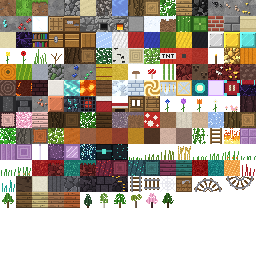
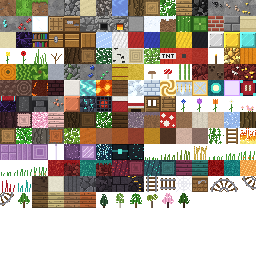
VoxelMundo 2.85: textura nova da melancia
Claude-Session: https://claude.ai/code/session_01SKzGsMSN5sGbjpC94Uaicj

diff --git a/VoxelMundo/app/src/main/assets/js/jogo.js b/VoxelMundo/app/src/main/assets/js/jogo.js
@@ -300,7 +300,11 @@ tile('torch', (px, r) => { for (let y = 0; y < 16; y++) for (let x = 0; x < 16; 
 tile('glowstone', (px, r) => { for (let y = 0; y < 16; y++) for (let x = 0; x < 16; x++) { const k = r(); px(x, y, k < 0.25 ? [140, 100, 40] : k < 0.6 ? vary([230, 180, 80], r, 20) : vary([255, 230, 140], r, 20)); } });
 tile('pumpkin_side', (px, r) => { for (let y = 0; y < 16; y++) for (let x = 0; x < 16; x++) px(x, y, vary(x % 4 === 0 ? [190, 110, 20] : [225, 135, 25], r, 14)); });
 tile('pumpkin_top', (px, r) => { for (let y = 0; y < 16; y++) for (let x = 0; x < 16; x++) { const d = Math.hypot(x - 7.5, y - 7.5); px(x, y, d < 2 ? [100, 80, 30] : vary(Math.floor(d) % 3 === 0 ? [190, 110, 20] : [225, 135, 25], r, 12)); } });
-tile('melon_side', (px, r) => { for (let y = 0; y < 16; y++) for (let x = 0; x < 16; x++) px(x, y, vary((x + (y >> 2)) % 5 === 0 ? [160, 190, 40] : [100, 150, 30], r, 15)); });
+// melancia: casca verde-escura com listras claras onduladas (lado) e listras indo até o cabinho (topo)
+tile('melon_side', (px, r) => { for (let y = 0; y < 16; y++) for (let x = 0; x < 16; x++) { const w = Math.round(Math.sin(y * 0.9 + (x >> 2)) * 0.8); const sx = (x + w + 16) % 4;
+  const c = sx === 0 ? [136, 186, 64] : sx === 1 ? [92, 150, 44] : [52, 102, 30]; px(x, y, vary(c, r, 10)); } });
+tile('melon_top', (px, r) => { for (let y = 0; y < 16; y++) for (let x = 0; x < 16; x++) { const dx = x - 7.5, dy = y - 7.5, d = Math.hypot(dx, dy), a = Math.atan2(dy, dx); const st = Math.floor(((a / (Math.PI * 2)) * 16 + 16 + Math.sin(d * 0.7)) % 4);
+  let c = st === 0 ? [136, 186, 64] : st === 1 ? [92, 150, 44] : [52, 102, 30]; if (d < 1.6) c = [104, 80, 44]; else if (d < 2.6) c = [70, 122, 36]; px(x, y, vary(c, r, 9)); } });
 tile('clay', noiseFill([160, 166, 178], 12));
 tile('mossy_cobble', (px, r, g) => { voronoi(px, r, [122, 122, 122], 14, 9, 0.9); for (let i = 0; i < 40; i++) px(r() * 16 | 0, r() * 16 | 0, vary([80, 120, 60], r, 20)); });
 tile('lapis_ore', (px, r) => { P_STONE(px, r); for (let i = 0; i < 6; i++) { const x = 1 + r() * 13 | 0, y = 1 + r() * 13 | 0; px(x, y, [30, 60, 170]); px(x + 1, y, [40, 80, 200]); px(x, y + 1, [20, 40, 130]); } });
@@ -652,7 +656,7 @@ defBlock(46, 'tnt', 'TNT', { t: { top: 'tnt_top', side: 'tnt_side', bottom: 'tnt
 defBlock(47, 'torch', 'Tocha', { solid: false, opaque: false, torch: true, hard: 0, light: 14, snd: 'wood' });
 defBlock(48, 'glowstone', 'Pedra-Lume', { hard: 0.3, light: 15, snd: 'glass', drop: 'glowstone_dust', dropCount: [2, 4] });
 defBlock(49, 'pumpkin', 'Abóbora', { t: { top: 'pumpkin_top', side: 'pumpkin_side' }, hard: 1, tool: 'axe', snd: 'wood' });
-defBlock(50, 'melon', 'Melancia', { t: { top: 'pumpkin_top', side: 'melon_side' }, hard: 1, tool: 'axe', drop: 'melon_slice', dropCount: [3, 7], snd: 'wood' });
+defBlock(50, 'melon', 'Melancia', { t: { top: 'melon_top', side: 'melon_side' }, hard: 1, tool: 'axe', drop: 'melon_slice', dropCount: [3, 7], snd: 'wood' });
 defBlock(51, 'clay', 'Argila', { hard: 0.6, tool: 'shovel', drop: 'clay_ball', dropCount: [4, 4], snd: 'dirt' });
 defBlock(52, 'mossy_cobble', 'Pedra Bruta Musgosa', { hard: 2, tool: 'pickaxe', tier: 0 });
 defBlock(53, 'lapis_ore', 'Minério de Lápis-Lazúli', { hard: 3, tool: 'pickaxe', tier: 1, drop: 'lapis', dropCount: [4, 8], xp: 3 });
